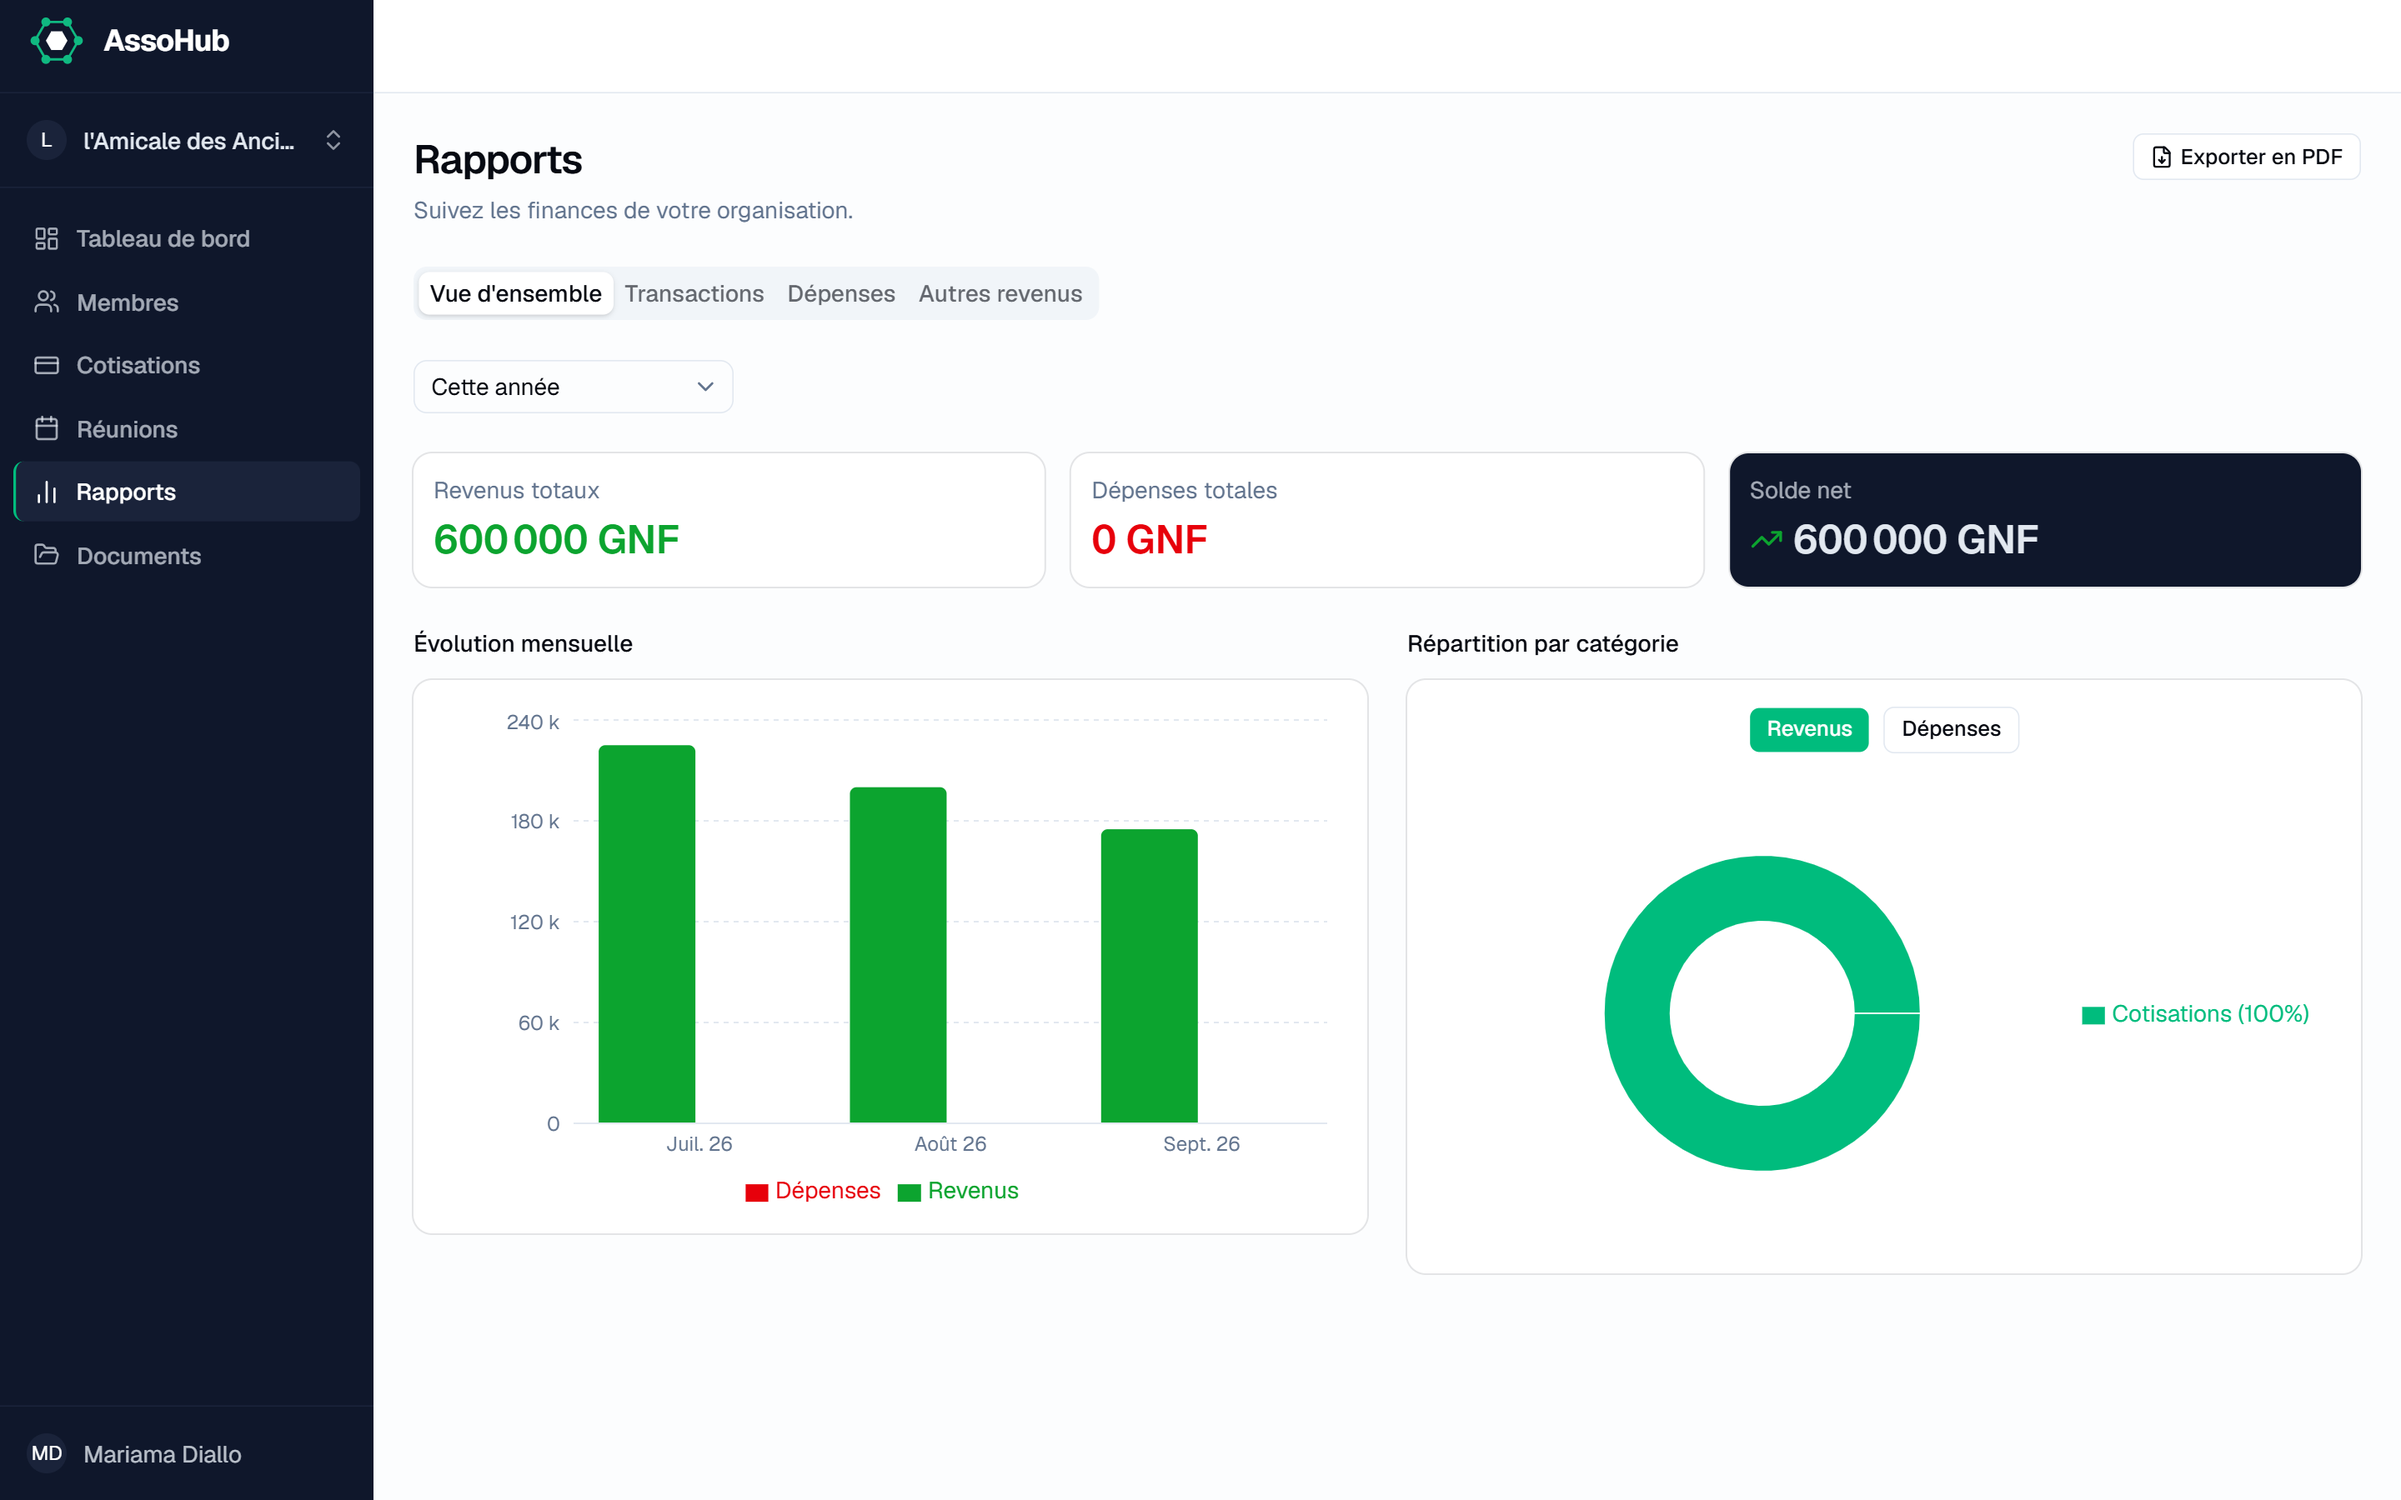
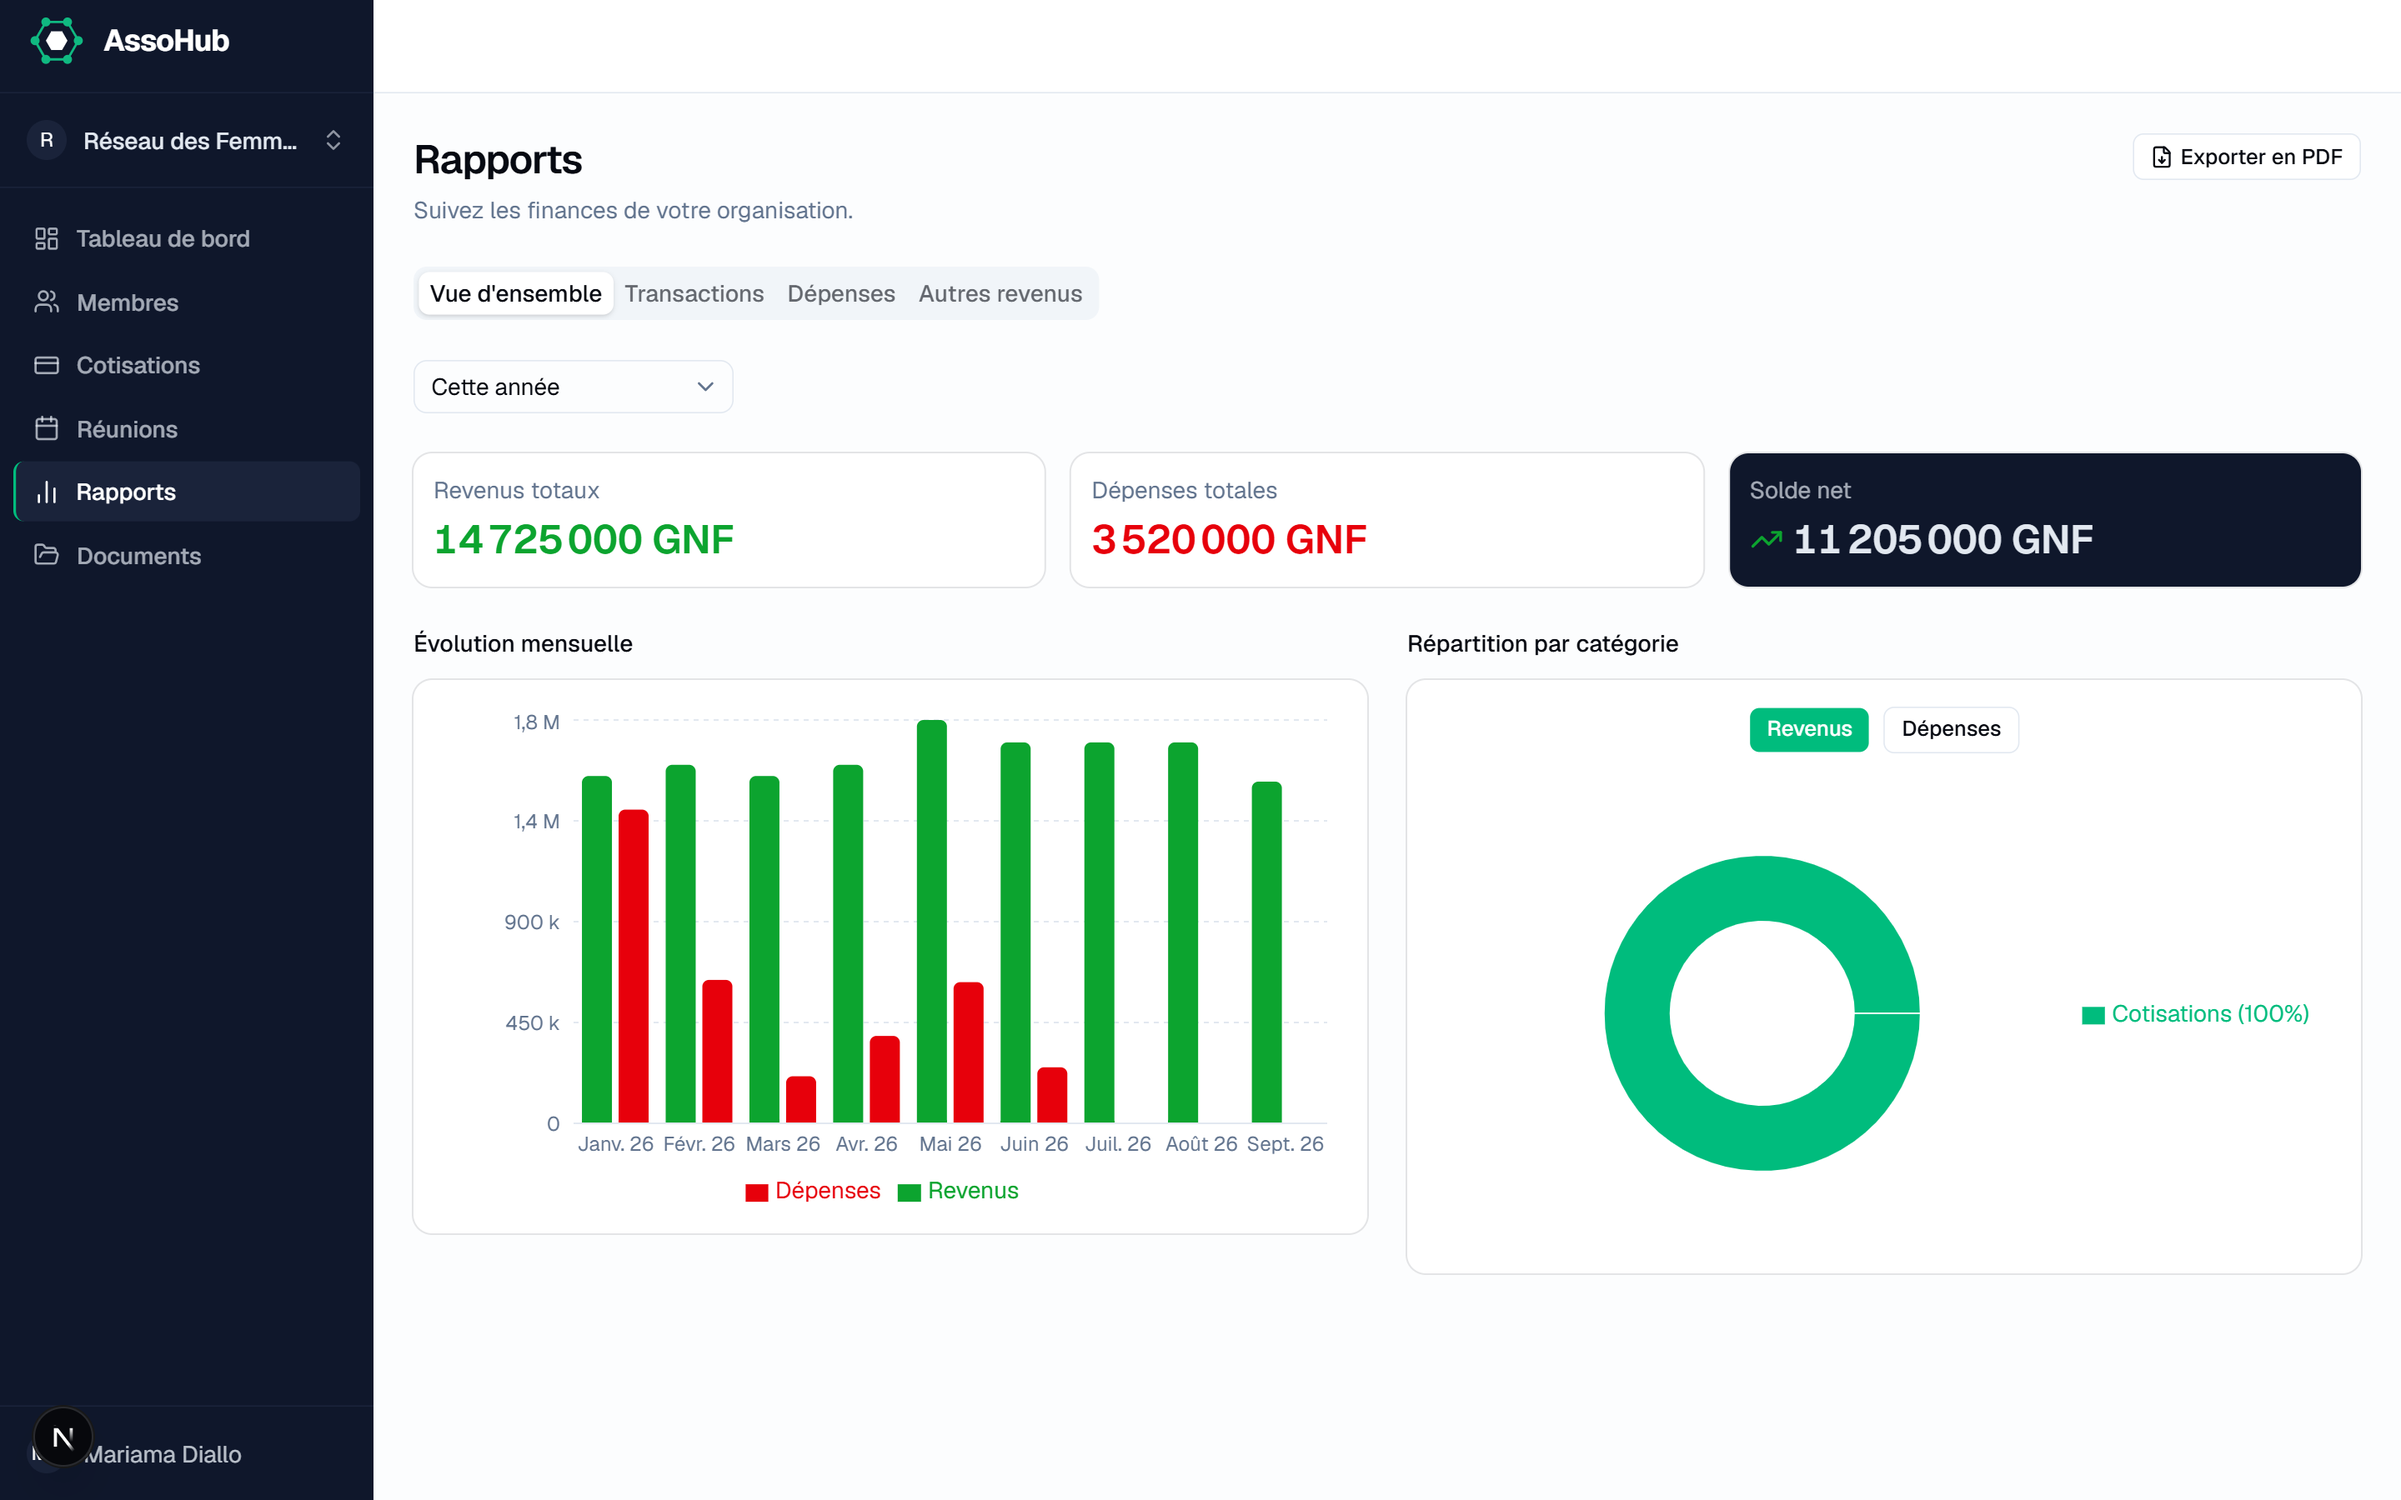
feat(landing): 4:3 crops of the product screenshots
scripts/landing-images.ts now also produces one 4:3 crop per landing
sub-feature in public/landing/crops/ (native resolution, never upscaled),
for the upcoming accordion clusters. Each crop is framed so that no text
is cut at an edge (checked visually and with an edge-ink scan), the UI
text stays >= 10 px once displayed, and every figure used in a bubble is
visible in the crop.

Also commits the retaken reunions-pv.png and rapports.png, which now show
REFEM like the other screenshots (reunions-presence.png is regenerated
from the new reunions-pv.png).

diff --git a/scripts/landing-images.ts b/scripts/landing-images.ts
@@ -3,18 +3,69 @@
  * captures sources de `public/landing/` (résultats commités, aucune
  * conversion à l'exécution) :
  *
+ * - `crops/*.png` : un recadrage 4:3 par sous-fonctionnalité (visuels des
+ *   grappes en accordéon), à la résolution native — jamais agrandi ici,
+ *   c'est l'affichage qui zoome sur la zone utile ;
  * - `reunions-presence.png` : recadrage 16:10 centré sur le bloc « Présence »
- *   de `reunions-pv.png` (résolution native, sans agrandissement) ;
+ *   de `reunions-pv.png` (ancienne mise en page, retiré avec elle) ;
  * - `og-image.png` : image Open Graph 1200 × 630 tirée de `dashboard.png`.
  *
  * À relancer si une capture source est refaite :
  *   npx tsx scripts/landing-images.ts
  */
+import { mkdirSync } from "node:fs";
 import path from "node:path";
 
 import sharp from "sharp";
 
 const DIR = path.join(process.cwd(), "public", "landing");
+const CROPS_DIR = path.join(DIR, "crops");
+
+/**
+ * Recadrages 4:3 (coordonnées dans les captures sources, 2880 × 1800).
+ *
+ * Règles : aucun texte coupé sur un bord ; largeur ≤ ~1 500 px pour que le
+ * texte reste lisible (≥ 10 px) une fois le visuel affiché sur ~600 px ;
+ * chaque chiffre repris dans une bulle doit être visible dans le recadrage.
+ */
+const CROPS: { name: string; source: string; left: number; top: number; width: number }[] = [
+  // Cartes « Total des membres 46 » / « Membres actifs 42 », colonnes Nom, Téléphone, Rôle.
+  { name: "membres-liste", source: "membres-liste", left: 482, top: 425, width: 1512 },
+  // En-tête, Coordonnées, Adhésion (« Date d'adhésion 11 mars 2023 »).
+  { name: "membres-fiche", source: "membres-fiche", left: 495, top: 230, width: 1304 },
+  // Haut du dialog « Nouveau membre », cadré à l'intérieur du dialog (x 930→1949) :
+  // le texte flouté de l'arrière-plan serait coupé sur les bords.
+  // Commence sous les coins arrondis du haut (y 171) pour n'avoir que du blanc aux bords.
+  { name: "membres-ajout", source: "membres-ajout", left: 932, top: 191, width: 1016 },
+  // Onglets, cartes « Total collecté ce mois » et « Restant à percevoir ».
+  // S'arrête avant la colonne « Période » (x 1630).
+  { name: "cotisations-vue", source: "cotisations-vue", left: 475, top: 115, width: 1148 },
+  // Bouton « Relancer tous les retardataires (24) » + colonnes Montant → Dernier rappel.
+  { name: "cotisations-relances", source: "cotisations-relances", left: 1555, top: 418, width: 1288 },
+  // Montant à encaisser + liste des moyens de paiement ouverte.
+  // Cadré à l'intérieur du dialog (x 930→1949, y 279→1521), comme membres-ajout.
+  { name: "cotisations-moyens", source: "cotisations-moyens", left: 930, top: 740, width: 1020 },
+  // Carte « Prochaine réunion » + calendrier.
+  { name: "reunions-liste", source: "reunions-liste", left: 1685, top: 320, width: 1172 },
+  // Procès-verbal : en-tête, badge « Publié », ordre du jour (avant les décisions).
+  { name: "reunions-pv", source: "reunions-pv", left: 475, top: 979, width: 620 },
+  // Bloc Présence (« 38 présents sur 42 membres actifs ») puis début du PV.
+  { name: "reunions-presence", source: "reunions-pv", left: 475, top: 659, width: 1036 },
+  // Jauge de stockage, pastilles de catégorie, premières lignes.
+  { name: "documents-page", source: "documents-page", left: 482, top: 144, width: 1316 },
+  // Les six reçus, chacun « Lié au paiement du … ».
+  { name: "documents-rattachement", source: "documents-rattachement", left: 497, top: 497, width: 1064 },
+  // Cartes Revenus / Dépenses + graphique mensuel et sa légende.
+  // S'arrête avant « Répartition par catégorie » (x 1690).
+  { name: "rapports", source: "rapports", left: 464, top: 533, width: 1220 },
+  // Cartes « Membres actifs » et « À percevoir / 24 retardataires », prochaine réunion.
+  // Commence sous les actions rapides : le 4e bouton serait coupé à droite.
+  { name: "dashboard", source: "dashboard", left: 475, top: 392, width: 1188 },
+  // Barre latérale, menu des organisations ouvert. Largeur calée entre la fin de
+  // « Bonjour Mariama » (x 868) et le texte du bouton « Enregistrer… » (x 881) ; commence
+  // sous le logo (y 112) pour que le menu entier, jusqu'à « Documents », tienne en hauteur.
+  { name: "dashboard-switcher", source: "dashboard-switcher", left: 0, top: 112, width: 876 },
+];
 
 /**
  * Coordonnées dans `reunions-pv.png` (2880 × 1800). Le bloc « Présence »
@@ -25,6 +76,16 @@ const DIR = path.join(process.cwd(), "public", "landing");
 const PRESENCE_CROP = { left: 467, top: 334, width: 1600, height: 1000 };
 
 async function main() {
+  mkdirSync(CROPS_DIR, { recursive: true });
+  for (const crop of CROPS) {
+    const height = (crop.width * 3) / 4;
+    if (!Number.isInteger(height)) throw new Error(`${crop.name} : largeur non multiple de 4 (${crop.width}).`);
+    await sharp(path.join(DIR, `${crop.source}.png`))
+      .extract({ left: crop.left, top: crop.top, width: crop.width, height })
+      .png({ compressionLevel: 9 })
+      .toFile(path.join(CROPS_DIR, `${crop.name}.png`));
+  }
+
   await sharp(path.join(DIR, "reunions-pv.png"))
     .extract(PRESENCE_CROP)
     .png({ compressionLevel: 9 })
@@ -35,7 +96,7 @@ async function main() {
     .png({ compressionLevel: 9 })
     .toFile(path.join(DIR, "og-image.png"));
 
-  console.log("reunions-presence.png et og-image.png générés dans public/landing/");
+  console.log(`${CROPS.length} recadrages dans public/landing/crops/, reunions-presence.png et og-image.png générés.`);
 }
 
 main().catch((error) => {
